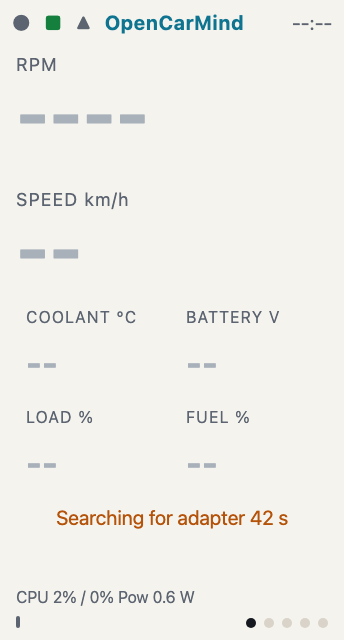
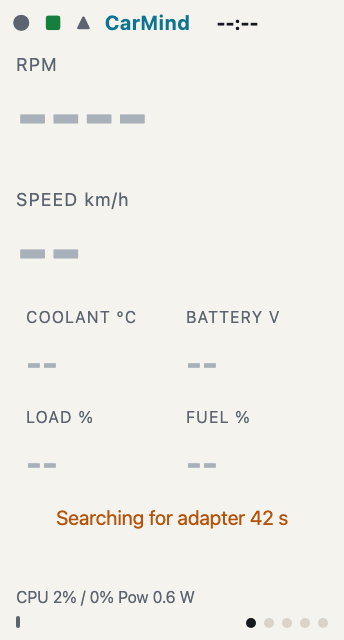
README: four-screen grid, adapter table, edge ML references; docs pass
- The screens section shows pages 1, 3, 4 and 5 in two rows of four (dark,
  light) instead of five images that wrapped. The renders show the device
  as it is now: "CarMind" in the top bar and a bold clock, v2.2.0 on the
  system page. Documents and code keep the name OpenCarMind.
- Adapter compatibility table under Hardware, with docs/ADAPTERS.md for
  prices and sources.
- References: QAT (Jacob 2018, Krishnamoorthi 2018), MobileNets and
  MobileNetV2, 1-D CNN time series baseline (Wang 2017), MCUNet, TFLite
  Micro, MLPerf Tiny, Liu and Layland, Joseph and Pandya, ESP-DL and
  ESP-PPQ. Every arXiv entry checked against the arXiv API.
- Status lines updated (273 host checks, desktop flashing already ships).
- Plain-language pass: prices in USD so GitHub does not read "$" as math,
  repeated sentence openings and same-length runs varied.

Claude-Session: https://claude.ai/code/session_01XTAvvSkN4SswRoW4SU59VW

Changed region(s): [[0.3198, 0.0, 0.7558, 0.0625], [0.9012, 0.0312, 0.9302, 0.0625]]

diff --git a/docs/screens/screens.html b/docs/screens/screens.html
@@ -23,7 +23,7 @@ body{margin:0;background:#1a1f27;font-family:Montserrat,system-ui,sans-serif;col
 <div class="row">
 
 <div class="scr" id="dash">
- <div class="bar"><span style="color:#22C55E">&#9679;</span><span style="color:#22C55E">&#9632;</span><span style="color:#7B8794">&#9650;</span><span class="brand">OpenCarMind</span><span class="muted" style="margin-left:auto">18:42</span></div>
+ <div class="bar"><span style="color:#22C55E">&#9679;</span><span style="color:#22C55E">&#9632;</span><span style="color:#7B8794">&#9650;</span><span class="brand">CarMind</span><span style="margin-left:12px;font-weight:700">18:42</span></div>
  <div style="padding:10px 16px 0"><div class="cap">RPM</div><div class="big">2350</div><div style="margin-top:10px;height:16px;border-radius:8px;background:#151B23"><div style="width:34%;height:100%;border-radius:8px;background:#22D3EE"></div></div></div>
  <div style="padding:12px 16px 0"><div class="cap">SPEED km/h</div><div class="big" style="color:#22D3EE">64</div></div>
  <div class="grid2"><div class="tile"><span class="cap" style="font-size:16px">COOLANT °C</span><span style="font-size:36px;font-weight:600">88</span></div><div class="tile"><span class="cap" style="font-size:16px">BATTERY V</span><span style="font-size:36px;font-weight:600">14.1</span></div><div class="tile"><span class="cap" style="font-size:16px">LOAD %</span><span style="font-size:36px;font-weight:600">31</span></div><div class="tile"><span class="cap" style="font-size:16px">FUEL %</span><span style="font-size:36px;font-weight:600">62</span></div></div>
@@ -69,7 +69,7 @@ body{margin:0;background:#1a1f27;font-family:Montserrat,system-ui,sans-serif;col
   <div class="tile" style="height:84px;border:2px solid #A78BFA"><span class="cap" style="font-size:15px;color:#A78BFA">CPU / POWER</span><span style="font-size:22px;font-weight:600">3%/2% 1.4W</span></div>
   <div class="tile" style="height:84px;border:2px solid #60A5FA"><span class="cap" style="font-size:15px;color:#60A5FA">HEAP / PSRAM</span><span style="font-size:22px;font-weight:600">28K 7842K</span></div>
   <div class="tile" style="height:84px;border:2px solid #34D399"><span class="cap" style="font-size:15px;color:#34D399">LINKS</span><span style="font-size:19px;font-weight:600">B:ok S:ok W:idle</span></div>
-  <div class="tile" style="height:84px;border:2px solid #FBBF24"><span class="cap" style="font-size:15px;color:#FBBF24">UPTIME / FW</span><span style="font-size:22px;font-weight:600">14m  v2.0.1</span></div>
+  <div class="tile" style="height:84px;border:2px solid #FBBF24"><span class="cap" style="font-size:15px;color:#FBBF24">UPTIME / FW</span><span style="font-size:22px;font-weight:600">14m  v2.2.0</span></div>
  </div>
  <div style="position:absolute;left:8px;top:236px;width:328px;height:128px;box-sizing:border-box;background:#151B23;border:2px solid #22D3EE;border-radius:12px"><span class="cap" style="position:absolute;left:8px;top:2px;font-size:15px;color:#22D3EE">JOBS</span><span class="muted" style="position:absolute;right:8px;top:2px;font-size:15px">core load 4% / 3%</span><i style="position:absolute;left:8px;top:36px;width:12px;height:12px;border-radius:6px;background:#22C55E"></i><span style="position:absolute;left:28px;top:28px;font-size:17px;">Car data</span><i style="position:absolute;left:136px;top:36px;width:64px;height:12px;border-radius:4px;background:#3A4552"></i><i style="position:absolute;left:136px;top:36px;width:11px;height:12px;border-radius:4px;background:#22C55E"></i><span style="position:absolute;right:10px;top:28px;font-size:17px;color:#E5E7EB">0.6 s</span><i style="position:absolute;left:8px;top:64px;width:12px;height:12px;border-radius:6px;background:#22C55E"></i><span style="position:absolute;left:28px;top:56px;font-size:17px;">AI model</span><i style="position:absolute;left:136px;top:64px;width:64px;height:12px;border-radius:4px;background:#3A4552"></i><i style="position:absolute;left:136px;top:64px;width:1px;height:12px;border-radius:4px;background:#22C55E"></i><span style="position:absolute;right:10px;top:56px;font-size:17px;color:#E5E7EB">&lt;0.1 s</span></div>
  <div style="position:absolute;left:8px;top:370px;width:328px;height:106px;box-sizing:border-box;background:#151B23;border:2px solid #F472B6;border-radius:12px"><span class="cap" style="position:absolute;left:8px;top:2px;font-size:15px;color:#F472B6">AI SEES</span><span style="position:absolute;left:112px;top:22px;font-size:20px">Cruising</span><i style="position:absolute;left:8px;top:40px;width:116px;height:12px;border-radius:4px;background:#3A4552"></i><i style="position:absolute;left:8px;top:40px;width:101px;height:12px;border-radius:4px;background:#22C55E"></i><span style="position:absolute;left:128px;top:44px;font-size:17px">87% sure</span><span class="muted" style="position:absolute;left:8px;top:64px;font-size:17px">142 checks, 7.1 ms</span><i style="position:absolute;left:230px;top:26px;width:14px;height:34px;border-radius:4px;background:#3A4552"></i><i style="position:absolute;left:230px;top:58px;width:14px;height:2px;border-radius:4px;background:#7B8794"></i><span class="muted" style="position:absolute;left:232px;top:62px;font-size:15px">S</span><i style="position:absolute;left:248px;top:26px;width:14px;height:34px;border-radius:4px;background:#3A4552"></i><i style="position:absolute;left:248px;top:58px;width:14px;height:2px;border-radius:4px;background:#7B8794"></i><span class="muted" style="position:absolute;left:250px;top:62px;font-size:15px">B</span><i style="position:absolute;left:266px;top:26px;width:14px;height:34px;border-radius:4px;background:#3A4552"></i><i style="position:absolute;left:266px;top:58px;width:14px;height:2px;border-radius:4px;background:#7B8794"></i><span class="muted" style="position:absolute;left:268px;top:62px;font-size:15px">A</span><i style="position:absolute;left:284px;top:26px;width:14px;height:34px;border-radius:4px;background:#3A4552"></i><i style="position:absolute;left:284px;top:31px;width:14px;height:29px;border-radius:4px;background:#F472B6"></i><span class="muted" style="position:absolute;left:286px;top:62px;font-size:15px">C</span></div>
@@ -84,13 +84,13 @@ body{margin:0;background:#1a1f27;font-family:Montserrat,system-ui,sans-serif;col
   MIL off, 0 DTC<br>stored: none<br>pending: none<br><br>
   Wi-Fi: idle<br>Clock: synced<br>SD: ok<br><br>
   Session s000003  1284 rows  up 42 min<br>Intake 31°  Oil 96°  Amb 22°<br>Thr 18%  MAF 4.2 g/s<br><br>
-  <span class="muted">OpenCarMind 2.2.0<br>BOOT: tap = page, 2 s = off, 8 s = forget</span>
+  <span class="muted">CarMind 2.2.0<br>BOOT: tap = page, 2 s = off, 8 s = forget</span>
  </div>
  <div class="dots"><span></span><span class="on"></span><span></span><span></span><span></span></div>
 </div>
 
 <div class="scr" id="pairing">
- <div class="bar"><span style="color:#7B8794">&#9679;</span><span style="color:#22C55E">&#9632;</span><span style="color:#7B8794">&#9650;</span><span class="brand">OpenCarMind</span><span class="muted" style="margin-left:auto">--:--</span></div>
+ <div class="bar"><span style="color:#7B8794">&#9679;</span><span style="color:#22C55E">&#9632;</span><span style="color:#7B8794">&#9650;</span><span class="brand">CarMind</span><span style="margin-left:12px;font-weight:700">--:--</span></div>
  <div style="padding:10px 16px 0"><div class="cap">RPM</div><div class="big" style="color:#3B4552">----</div><div style="margin-top:10px;height:16px;border-radius:8px;background:#151B23"></div></div>
  <div style="padding:12px 16px 0"><div class="cap">SPEED km/h</div><div class="big" style="color:#3B4552">--</div></div>
  <div class="grid2"><div class="tile"><span class="cap" style="font-size:16px">COOLANT °C</span><span style="font-size:36px;font-weight:600;color:#3B4552">--</span></div><div class="tile"><span class="cap" style="font-size:16px">BATTERY V</span><span style="font-size:36px;font-weight:600;color:#3B4552">--</span></div><div class="tile"><span class="cap" style="font-size:16px">LOAD %</span><span style="font-size:36px;font-weight:600;color:#3B4552">--</span></div><div class="tile"><span class="cap" style="font-size:16px">FUEL %</span><span style="font-size:36px;font-weight:600;color:#3B4552">--</span></div></div>

diff --git a/README.md b/README.md
@@ -54,29 +54,19 @@ Open-source loggers usually treat timing as someone else's problem. Here every p
 ## The screens
 
 <p align="center">
-<img src="docs/images/dash.png" width="170" alt="Page 1: dashboard">
-<img src="docs/images/details.png" width="170" alt="Page 2: details">
-<img src="docs/images/internals.png" width="170" alt="Page 3: internals and recent events, including Safe to turn off">
-<img src="docs/images/faults.png" width="170" alt="Page 4: faults">
-<img src="docs/images/system.png" width="170" alt="Page 5: system, jobs and AI">
+<img src="docs/images/dash.png" width="190" alt="Page 1: dashboard">
+<img src="docs/images/internals.png" width="190" alt="Page 3: internals and recent events, including Safe to turn off">
+<img src="docs/images/faults.png" width="190" alt="Page 4: faults">
+<img src="docs/images/system.png" width="190" alt="Page 5: system, jobs and AI">
 </p>
-
-The same five pages in the light theme:
-
 <p align="center">
-<img src="docs/images/dash-light.png" width="170" alt="Page 1 in the light theme: dashboard">
-<img src="docs/images/details-light.png" width="170" alt="Page 2 in the light theme: details">
-<img src="docs/images/internals-light.png" width="170" alt="Page 3 in the light theme: internals and recent events">
-<img src="docs/images/faults-light.png" width="170" alt="Page 4 in the light theme: faults">
-<img src="docs/images/system-light.png" width="170" alt="Page 5 in the light theme: system">
+<img src="docs/images/dash-light.png" width="190" alt="Page 1 in the light theme: dashboard">
+<img src="docs/images/internals-light.png" width="190" alt="Page 3 in the light theme: internals and recent events">
+<img src="docs/images/faults-light.png" width="190" alt="Page 4 in the light theme: faults">
+<img src="docs/images/system-light.png" width="190" alt="Page 5 in the light theme: system">
 </p>
 
-Page 3 says live whether the power can be cut. It turns green only when car data has stopped, everything is on the card and no upload is running:
-
-<p align="center">
-<img src="docs/images/internals.png" width="170" alt="Page 3 with the green line: Safe to turn off">
-<img src="docs/images/internals-logging.png" width="170" alt="Page 3 with the red line: Not safe, logging">
-</p>
+Pages 1, 3, 4 and 5 in the dark and light themes. Page 2 is plain text (adapter, VIN, protocol, codes, clock and SD state) and has its own picture at [docs/images/details.png](docs/images/details.png). Page 3 turns its power line green only when car data has stopped, everything is on the card and no upload is running, and red with the reason otherwise ([red example](docs/images/internals-logging.png)).
 
 By default the screen switches by time of day. It is light from 06:00 to 17:00 and dark otherwise, in the board's time zone. Set `timezone` in `config.json` (the desktop app fills it in from your computer), because the build default is UTC. Before the clock is known the screen stays dark. Set `theme_mode` in `config.json` to 1 for always dark or 2 for always light, and `day_start_hour` and `day_end_hour` to change the hours (see [docs/CONFIGURATION.md](docs/CONFIGURATION.md)). The pictures are renders, not photographs of a panel. They come from `docs/screens/screens.html` with `sh docs/screens/render.sh`, which applies the same light colour table the firmware uses.
 
@@ -108,8 +98,28 @@ The app in [desktop/](desktop/README.md) runs on Windows, macOS and Linux. Over 
 ## Hardware
 
 - Board: Waveshare ESP32-S3-LCD-1.47B (the pin map in `main/board.h` matches it). Other ESP32-S3 boards need that file edited. There is no build without the display yet.
-- Adapter: a Bluetooth LE ELM327-style adapter. It was tested with a LELink only. The firmware knows the serial layouts of OBDLink CX, Veepeak, Carista, Vgate iCar Pro and vLinker, Deep OBD and the Nordic UART service, falls back to any service it can subscribe to and write, and pairs only when the adapter asks. Classic Bluetooth adapters will not work, because the S3 has no classic radio. [docs/ADAPTERS.md](docs/ADAPTERS.md) lists adapters with their status, prices and links.
+- Adapter: a Bluetooth LE adapter that speaks ELM327 commands (see the table below). Classic Bluetooth adapters will not work, because the S3 has no classic radio.
 - A FAT-formatted SD card.
+
+### Adapter compatibility
+
+The firmware has built-in profiles for the serial layouts below. Other BLE adapters are found by name or advertised service, and the board falls back to any service it can subscribe to and write. It pairs only when the adapter asks. Only the LELink has been driven with this board. The other rows come from vendor documents and other open-source OBD projects. [docs/ADAPTERS.md](docs/ADAPTERS.md) has prices, buying links and sources.
+
+| Adapter | Bluetooth | Built-in profile | Status |
+|---|---|---|---|
+| LELink, LELink² | LE | FFE0 / FFE1 | tested |
+| Veepeak OBDCheck BLE, BLE+ | LE | FFF0 / FFF1 / FFF2 | expected |
+| OBDLink CX | LE 5.1, encrypted | FFF0 / FFF1 / FFF2, pairs on demand | expected |
+| Carista OBD2, Carista EVO | LE | FFF0 / FFF1 / FFF2 | expected |
+| Vgate iCar Pro BLE 4.0 | LE | 18F0 / 2AF0 / 2AF1 | expected |
+| Vgate vLinker MC+ | LE and Classic | E7810A71 / BEF8D6C9 | expected |
+| Vgate vLinker FS, MS | LE and Classic | E7810A71 / BEF8D6C9 | switch to "BLE+BT" in the VgateFwUpdater app first |
+| Deep OBD | LE | FFE0 / FFE1 / FFE2 | expected |
+| PLX Kiwi 3 | LE | generic fallback | expected |
+| Generic ELM327 "BLE 4.0" clones | LE | FFF0 or FFE0 | expected for most |
+| FIXD | Bluetooth | unknown | unverified |
+| BlueDriver | Bluetooth | private protocol | not expected |
+| OBDLink MX+, OBDLink LX, KONNWEI KW902 | Classic only | none | will not work |
 
 ## Build and flash
 
@@ -149,18 +159,34 @@ What the model does not do yet:
 
 ## Status
 
-What has been checked, on the bench or in the code: the build (with Wi-Fi clock sync on and off), the model's identity hash, the host unit tests (183 checks, including a simulated drive for the power-off line), the 10-second save and the "Safe to turn off" event on a board with an SD card, and the Wi-Fi upload to a stand-in receiver with resume after a cut-off pass. CI builds the desktop app and runs its unit tests on Windows, macOS and Linux. Nobody has opened the app on a real machine yet.
+What has been checked, on the bench or in the code: the build (with Wi-Fi clock sync on and off), the model's identity hash, the host unit tests (273 checks, including a simulated drive for the power-off line and the adapter profile chooser), the 10-second save and the "Safe to turn off" event on a board with an SD card, and the Wi-Fi upload to a stand-in receiver with resume after a cut-off pass. CI builds the desktop app and runs its unit tests on Windows, macOS and Linux. Nobody has opened the app on a real machine yet.
 
 Known security limits are listed in [SECURITY.md](SECURITY.md#known-limits).
 
-What has not been checked: other boards, other adapters, a power-off test during a real drive, and what the screens do on a board without a panel. The checks that need a car or a card are listed in [docs/FIELD_CHECKS.md](docs/FIELD_CHECKS.md), with empty result tables for users to fill in.
+What has not been checked: other boards, any adapter other than the LELink, a power-off test during a real drive, and what the screens do on a board without a panel. The checks that need a car or a card are listed in [docs/FIELD_CHECKS.md](docs/FIELD_CHECKS.md), with empty result tables for users to fill in.
 
 ## Planned
 
 - Support for more boards, including one without a display.
-- Flashing the board from the desktop app, and code-signed installers.
+- Code-signed installers.
 - More regularised models, released by this project, to fit more cars.
 - A faster version built on a Jetson.
+
+## References
+
+The model and its deployment follow published work on small networks and integer inference:
+
+- Jacob, B. et al. (2018). Quantization and training of neural networks for efficient integer-arithmetic-only inference. CVPR 2018. [arXiv:1712.05877](https://arxiv.org/abs/1712.05877). The basis of quantisation-aware training.
+- Krishnamoorthi, R. (2018). Quantizing deep convolutional networks for efficient inference: a whitepaper. [arXiv:1806.08342](https://arxiv.org/abs/1806.08342). A practical guide to post-training quantisation and quantisation-aware training.
+- Howard, A. G. et al. (2017). MobileNets: efficient convolutional neural networks for mobile vision applications. [arXiv:1704.04861](https://arxiv.org/abs/1704.04861). Depthwise-separable convolutions, used in every block of the trunk.
+- Sandler, M. et al. (2018). MobileNetV2: inverted residuals and linear bottlenecks. CVPR 2018. [arXiv:1801.04381](https://arxiv.org/abs/1801.04381). Residual depthwise blocks.
+- Wang, Z., Yan, W. and Oates, T. (2017). Time series classification from scratch with deep neural networks: a strong baseline. IJCNN 2017. [arXiv:1611.06455](https://arxiv.org/abs/1611.06455). 1-D convolution with global pooling for sensor sequences.
+- Lin, J. et al. (2020). MCUNet: tiny deep learning on IoT devices. NeurIPS 2020. [arXiv:2007.10319](https://arxiv.org/abs/2007.10319). Fitting networks to microcontroller memory.
+- David, R. et al. (2021). TensorFlow Lite Micro: embedded machine learning on TinyML systems. MLSys 2021. [arXiv:2010.08678](https://arxiv.org/abs/2010.08678). Interpreter design for microcontrollers.
+- Banbury, C. et al. (2021). MLPerf Tiny benchmark. NeurIPS 2021 Datasets and Benchmarks. [arXiv:2106.07597](https://arxiv.org/abs/2106.07597). How tiny models are measured.
+- Liu, C. L. and Layland, J. W. (1973). Scheduling algorithms for multiprogramming in a hard-real-time environment. Journal of the ACM 20(1). The rate-monotonic bound in `main/sched_mon.c`.
+- Joseph, M. and Pandya, P. (1986). Finding response times in a real-time system. The Computer Journal 29(5). The response-time check in `main/sched_mon.c`.
+- Espressif [ESP-DL](https://github.com/espressif/esp-dl) runs the model, and [ESP-PPQ](https://github.com/espressif/esp-ppq) quantises it.
 
 ## Repository layout
 

diff --git a/docs/ADAPTERS.md b/docs/ADAPTERS.md
@@ -32,28 +32,28 @@ Only the LELink has been driven with this board. Every other row is based on the
 
 ## Adapters
 
-Prices are snapshots from US listings seen on 3 November 2026 and change often. "Not found" means no current price showed up. Amazon links are plain product pages with no affiliate tag.
+Prices are in US dollars, taken from US listings seen on 3 November 2026 and change often. "Not found" means no current price showed up. Amazon links are plain product pages with no affiliate tag.
 
 | Adapter | Radio | Layout | Status | Price seen | Buy |
 |---|---|---|---|---|---|
 | LELink² | BLE | FFE0 | Tested on this board | not found | [Amazon B0755N61PW](https://www.amazon.com/dp/B0755N61PW) |
-| Veepeak OBDCheck BLE+ | BLE (Classic too, for Android) | FFF0 | Expected | about $38 to $42 at US retailers | [Amazon B076XVQMVS](https://www.amazon.com/dp/B076XVQMVS) |
-| Veepeak OBDCheck BLE | BLE 4.0 | FFF0 | Expected | about $32 at a US retailer | [Amazon B073XKQQQW](https://www.amazon.com/dp/B073XKQQQW) |
-| OBDLink CX | BLE 5.1 | FFF0, always encrypted | Expected, pairs on demand. Bonding is open for the first 5 minutes after the adapter powers up | $79.95 | [Amazon B08NFLL3NT](https://www.amazon.com/dp/B08NFLL3NT) |
-| Vgate iCar Pro BLE 4.0 | BLE, shows up as IOS-Vlink | 18F0 | Expected | $31.49 | [Amazon B06XGB4873](https://www.amazon.com/dp/B06XGB4873) |
-| Vgate vLinker MC+ | BLE and Classic, BLE side named vLinker MC-IOS | Vgate E7810A71 or generic | Expected | about $55 | [Amazon B088LW211V](https://www.amazon.com/dp/B088LW211V) |
+| Veepeak OBDCheck BLE+ | BLE (Classic too, for Android) | FFF0 | Expected | about 38 to 42 USD at US retailers | [Amazon B076XVQMVS](https://www.amazon.com/dp/B076XVQMVS) |
+| Veepeak OBDCheck BLE | BLE 4.0 | FFF0 | Expected | about 32 USD at a US retailer | [Amazon B073XKQQQW](https://www.amazon.com/dp/B073XKQQQW) |
+| OBDLink CX | BLE 5.1 | FFF0, always encrypted | Expected, pairs on demand. Bonding is open for the first 5 minutes after the adapter powers up | 79.95 USD | [Amazon B08NFLL3NT](https://www.amazon.com/dp/B08NFLL3NT) |
+| Vgate iCar Pro BLE 4.0 | BLE, shows up as IOS-Vlink | 18F0 | Expected | 31.49 USD | [Amazon B06XGB4873](https://www.amazon.com/dp/B06XGB4873) |
+| Vgate vLinker MC+ | BLE and Classic, BLE side named vLinker MC-IOS | Vgate E7810A71 or generic | Expected | about 55 USD | [Amazon B088LW211V](https://www.amazon.com/dp/B088LW211V) |
 | Vgate vLinker FS | Classic and BLE, ships in MFi mode | Vgate E7810A71 or generic | Needs a setting: switch it to "BLE+BT" with the VgateFwUpdater app first | not found | [Amazon B0BZTXV6MZ](https://www.amazon.com/dp/B0BZTXV6MZ) |
 | Vgate vLinker MS | Classic and BLE, ships in MFi mode | Vgate E7810A71 or generic | Needs a setting: switch it to "BLE+BT" with the VgateFwUpdater app first | not found | [Amazon B0D6YQX4R8](https://www.amazon.com/dp/B0D6YQX4R8) |
 | Carista OBD2 / Carista EVO | BLE | FFF0 | Expected | not found | [Amazon B00YVHGTBM](https://www.amazon.com/dp/B00YVHGTBM), [EVO B0CM9W4MCW](https://www.amazon.com/dp/B0CM9W4MCW) |
 | PLX Kiwi 3 | BLE 4.x | generic | Expected | no current Amazon offer | [Amazon B016X3L0O2](https://www.amazon.com/dp/B016X3L0O2) |
 | FIXD | Bluetooth | unknown | Unverified. One owner reports it works with other ELM327 apps | not found, first generation discontinued | [Amazon B013RIQMEO](https://www.amazon.com/dp/B013RIQMEO) |
 | Generic "ELM327 BLE 4.0" clones | BLE | usually FFF0 or FFE0 | Expected for most. Some fake v2.1 clones skip commands | varies | [Amazon search](https://www.amazon.com/s?k=ELM327+Bluetooth+4.0+BLE+OBD2) |
-| BlueDriver Bluetooth Pro | Bluetooth | private protocol | Not expected: reported to work only with its own app | $79.95 | [Amazon search](https://www.amazon.com/s?k=BlueDriver+Bluetooth+Pro+OBDII) |
-| OBDLink MX+ | Classic Bluetooth 3.0 | SPP | Will not work, no Classic radio on the S3 | $139.95 | [Amazon B07JFRFJG6](https://www.amazon.com/dp/B07JFRFJG6) |
+| BlueDriver Bluetooth Pro | Bluetooth | private protocol | Not expected: reported to work only with its own app | 79.95 USD | [Amazon search](https://www.amazon.com/s?k=BlueDriver+Bluetooth+Pro+OBDII) |
+| OBDLink MX+ | Classic Bluetooth 3.0 | SPP | Will not work, no Classic radio on the S3 | 139.95 USD | [Amazon B07JFRFJG6](https://www.amazon.com/dp/B07JFRFJG6) |
 | OBDLink LX | Classic Bluetooth 3.0 | SPP | Will not work, no Classic radio on the S3 | not found | [Amazon search](https://www.amazon.com/s?k=OBDLink+LX+Bluetooth) |
 | KONNWEI KW902 | Classic, listed for Android and Windows only | SPP | Will not work, no Classic radio on the S3 | not found | [Amazon B073F57QT3](https://www.amazon.com/dp/B073F57QT3) |
 
-If your adapter is not listed, check it with a BLE scanner app such as nRF Connect. If it shows a service with one characteristic that notifies or indicates and one you can write, the generic fallback should find it. If its name has none of the words above and it does not advertise a known service, add its name to `OBD_BLE_NAME_PREFIXES` in `idf.py menuconfig`.
+Not listed? Check your adapter with a BLE scanner app such as nRF Connect. A service with one characteristic that notifies or indicates and one you can write is enough for the generic fallback. When the name has none of the words above and the adapter advertises no known service, add its name to `OBD_BLE_NAME_PREFIXES` in `idf.py menuconfig`.
 
 ## Sources for the adapter facts
 

diff --git a/docs/DASHBOARD.md b/docs/DASHBOARD.md
@@ -4,7 +4,7 @@ OpenCarMind pairs with [Dashy](https://github.com/Lissy93/dashy), an open-source
 
 ## What Dashy does here
 
-Dashy is a start page with widgets, not a charting tool. It cannot plot a CSV file by itself. So the work is split in two:
+Dashy is a start page with widgets and cannot plot a CSV file by itself, so the work is split in two:
 
 - `tools/ocm_report.py` reads the sessions from the SD card and writes a small local website: one report per drive with charts of speed, engine speed, coolant and throttle, the model's manoeuvre classes underneath, an index page, and a `summary.json` file. The charts are inline SVG, so a report makes no requests to the internet.
 - Dashy reads `summary.json` with its `customapi` widget, embeds the latest report with its `iframe` widget, and links to the index.

diff --git a/docs/MODEL.md b/docs/MODEL.md
@@ -77,4 +77,4 @@ On the author's car and adapter, one run took about 9 ms on average, with a wors
 
 ## Later models
 
-This project will release more regularised models to fit more cars. They will arrive as new releases with their own `ml/onboard/` files and `main/ml_params.h`. The training data and code are not part of this repository.
+This project will release more regularised models to fit more cars, each as a new release with its own `ml/onboard/` files and `main/ml_params.h`. The training data and code are not part of this repository.
